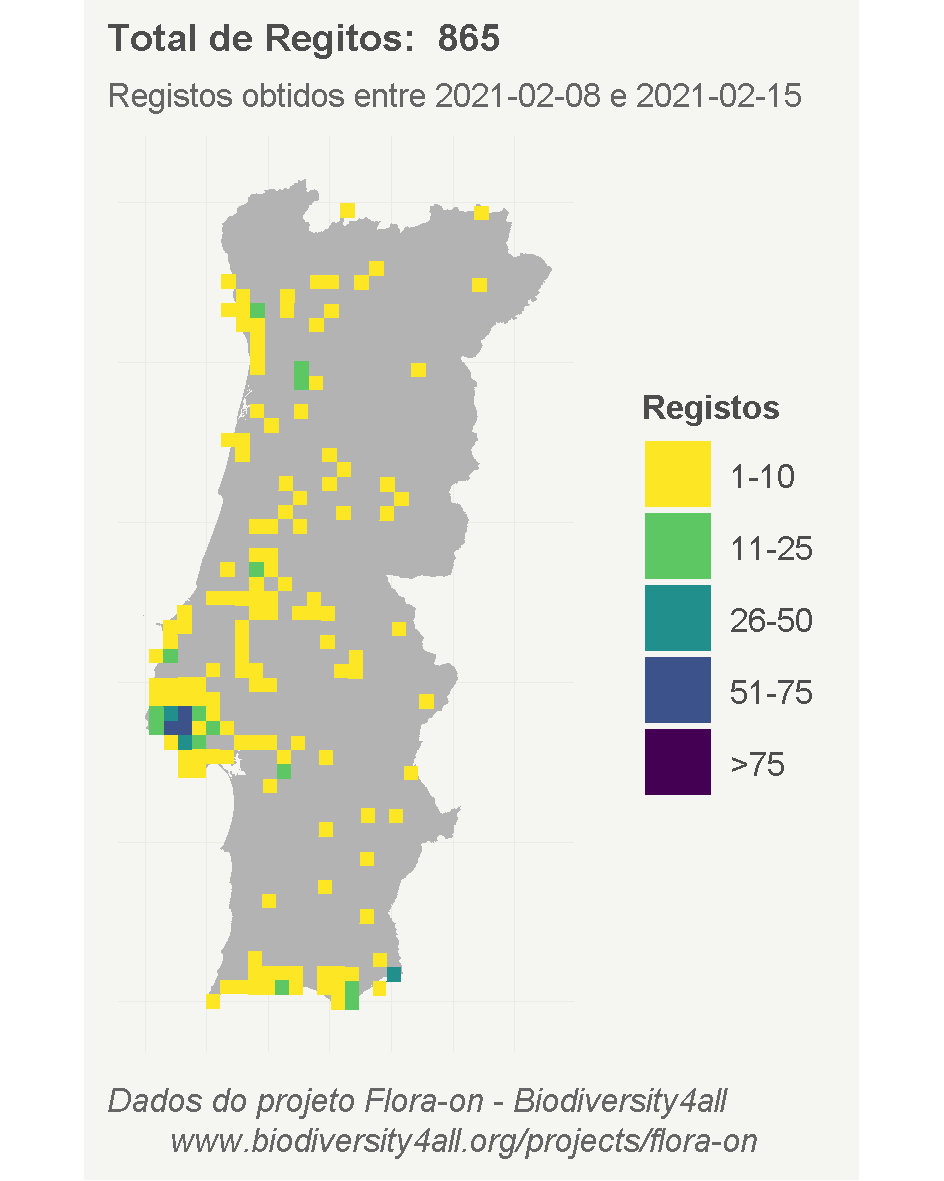
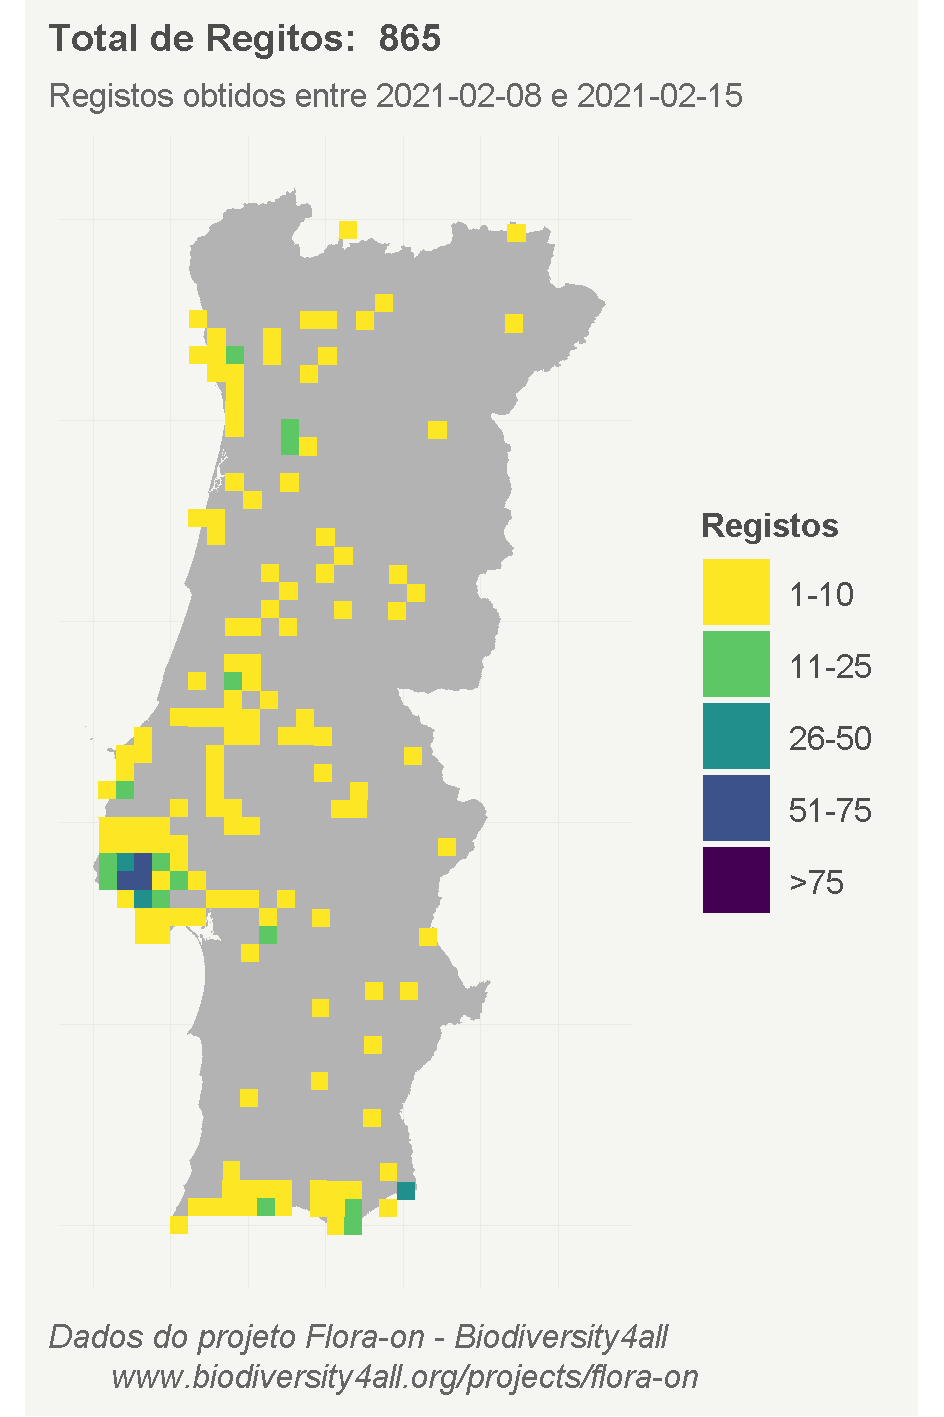
adjust img

diff --git a/README.md b/README.md
@@ -12,5 +12,5 @@ Flora-on is a project created and maintained by [Sociedade Portuguesa de Botâni
 
 ### Typical output
 
-<img src="figures/README-example_pt.png" width="100%" />
+<img src="figures/README-example_pt.png" width="50%" />
 
